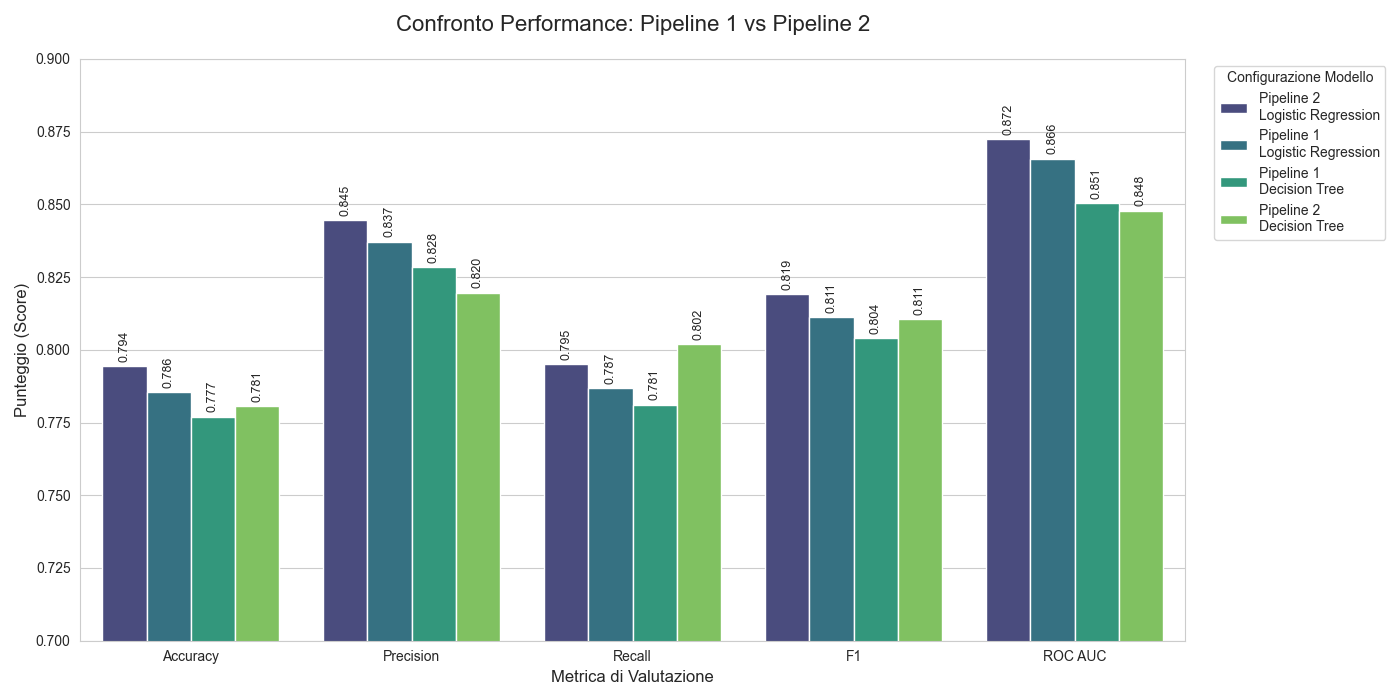
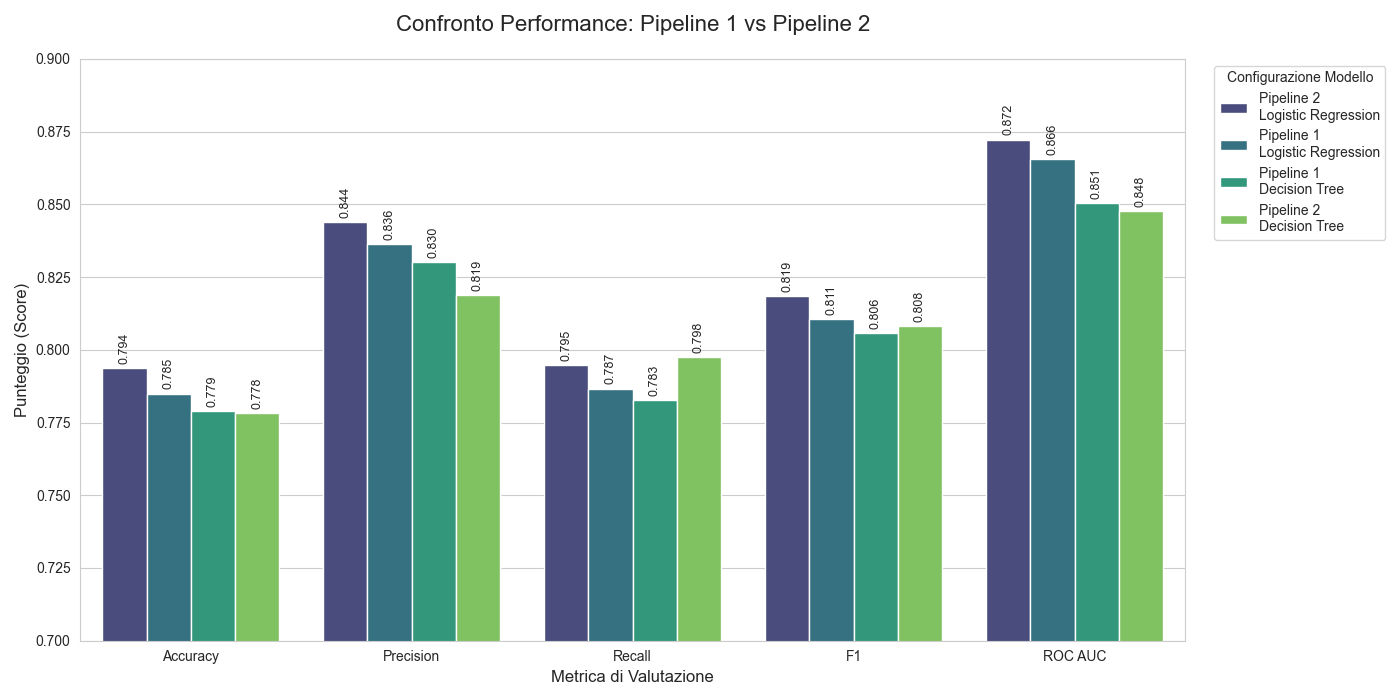
docs - grafici aggiornati

diff --git a/src/modeling.py b/src/modeling.py
@@ -4,8 +4,8 @@ import warnings
 import matplotlib.pyplot as plt
 from sklearn.tree import plot_tree
 import numpy as np
-import os
 import joblib
+import seaborn as sns
 warnings.filterwarnings("ignore")
 
 from sklearn.model_selection import StratifiedKFold, GridSearchCV, cross_validate
@@ -126,7 +126,7 @@ for pipe_name, (X, y, preprocessor) in datasets.items():
     print("\n📜 Regole decisionali (Decision Tree)")
     rules = export_text(tree_model, feature_names=feature_names)
     print(rules)
-    
+
     print("\n🌳 Visualizzazione Decision Tree (profondità limitata)")
     plt.figure(figsize=(20, 10))
     plot_tree(
@@ -206,23 +206,9 @@ for pipe_name, (X, y, preprocessor) in datasets.items():
     plt.suptitle(pipeline_label, fontsize=10)
     plt.tight_layout()
 
-
-    # Percorso base
-    BASE_DIR = os.path.dirname(os.path.abspath(__file__))
-    OUTPUT_DIR = os.path.join(BASE_DIR, "..", "docs", "images")
-
-    # Crea cartella se manca
-    os.makedirs(OUTPUT_DIR, exist_ok=True)
-
-    # Nome file "sicuro" (senza spazi, senza caratteri strani)
-    safe_pipe = pipe_name.replace(" ", "_")
-    safe_algo = algo_name.replace(" ", "_")
-    filename = os.path.join(OUTPUT_DIR, f"confusion_matrix_{safe_pipe}_{safe_algo}.png")
-
-    # Salva il grafico
-    plt.savefig(filename, dpi=300, bbox_inches="tight")
     plt.show()
     """
+
 
     # === STAMPE RISULTATI ===
     for metric in ['accuracy', 'precision', 'recall', 'f1', 'roc_auc']:
@@ -263,7 +249,8 @@ for pipe_name, (X, y, preprocessor) in datasets.items():
 # ==============================================================================
 # 4. LEADERBOARD FINALE
 # ==============================================================================
-df_results = pd.DataFrame(leaderboard_data).sort_values(by='Precision', ascending=False)
+# AGGIUNTO: .reset_index(drop=True) per allineare i dati al grafico
+df_results = pd.DataFrame(leaderboard_data).sort_values(by='Precision', ascending=False).reset_index(drop=True)
 
 print("\n" + "=" * 80)
 print("🏆 CLASSIFICA FINALE")
@@ -274,16 +261,11 @@ print(df_results.to_string(index=False, float_format="%.4f"))
 # ==============================================================================
 # 5. VISUALIZZAZIONE GRAFICA DEI RISULTATI
 # ==============================================================================
-import matplotlib.pyplot as plt
-import seaborn as sns
 
 print("\n📊 Generazione grafico riassuntivo...")
 
-# 1. Preparazione Dati per il Plot (Trasformazione in formato "Long")
-# Creiamo una colonna unica per identificare la combinazione Pipeline + Modello
 df_results['Model_ID'] = df_results['Source'] + "\n" + df_results['Algorithm']
 
-# "Sciogliamo" il dataframe per avere le metriche sulle righe (formato ideale per seaborn)
 df_long = df_results.melt(
     id_vars=['Model_ID'],
     value_vars=['Accuracy', 'Precision', 'Recall', 'F1', 'ROC AUC'],
@@ -291,17 +273,17 @@ df_long = df_results.melt(
     value_name='Score'
 )
 
-# 2. Configurazione Plot
 plt.figure(figsize=(14, 7))
 sns.set_style("whitegrid")
 
-# Creazione Barplot
+# MODIFICATO: aggiunto hue_order per forzare l'ordine della tabella nel grafico
 ax = sns.barplot(
     data=df_long,
     x='Metrica',
     y='Score',
     hue='Model_ID',
-    palette='viridis' # Usa 'rocket', 'mako' o 'viridis'
+    hue_order=df_results['Model_ID'], # <--- RIGA CHIAVE
+    palette='viridis'
 )
 
 # 3. Etichette e Titoli

diff --git a/src/pipeline2.py b/src/pipeline2.py
@@ -4,7 +4,7 @@ from pathlib import Path
 from sklearn.preprocessing import OneHotEncoder, StandardScaler
 from sklearn.compose import ColumnTransformer
 import matplotlib.pyplot as plt
-
+import seaborn as sns
 # =================================================================
 # CONFIGURAZIONE
 # =================================================================
@@ -62,6 +62,40 @@ def map_age_custom(age):
 
 # Applicazione della trasformazione
 df['Age_group'] = df['Age'].apply(map_age_custom)
+
+"""
+# 1. Definiamo l'ordine logico delle fasce
+age_order = ['18-21', '22-25', '26-29', '30+']
+
+# 2. Configurazione estetica
+plt.figure(figsize=(10, 6))
+sns.set_style("whitegrid")
+
+# 3. Creazione del grafico
+ax = sns.countplot(
+    data=df,
+    x='Age_group',
+    order=age_order,
+    palette='viridis'
+)
+
+# 4. Aggiunta dei titoli e dei valori sopra le barre
+plt.title('Distribuzione degli Studenti per Fascia d\'Età', fontsize=15, pad=15)
+plt.xlabel('Fascia d\'Età', fontsize=12)
+plt.ylabel('Numero di Studenti', fontsize=12)
+
+# Inseriamo il conteggio esatto sopra ogni barra
+for p in ax.patches:
+    ax.annotate(f'{int(p.get_height())}',
+                (p.get_x() + p.get_width() / 2., p.get_height()),
+                ha = 'center', va = 'center',
+                xytext = (0, 9),
+                textcoords = 'offset points',
+                fontsize=11, fontweight='bold')
+
+plt.tight_layout()
+plt.show()
+"""
 
 # =================================================================
 # FASE 3: FEATURE ENGINEERING – CGPA
